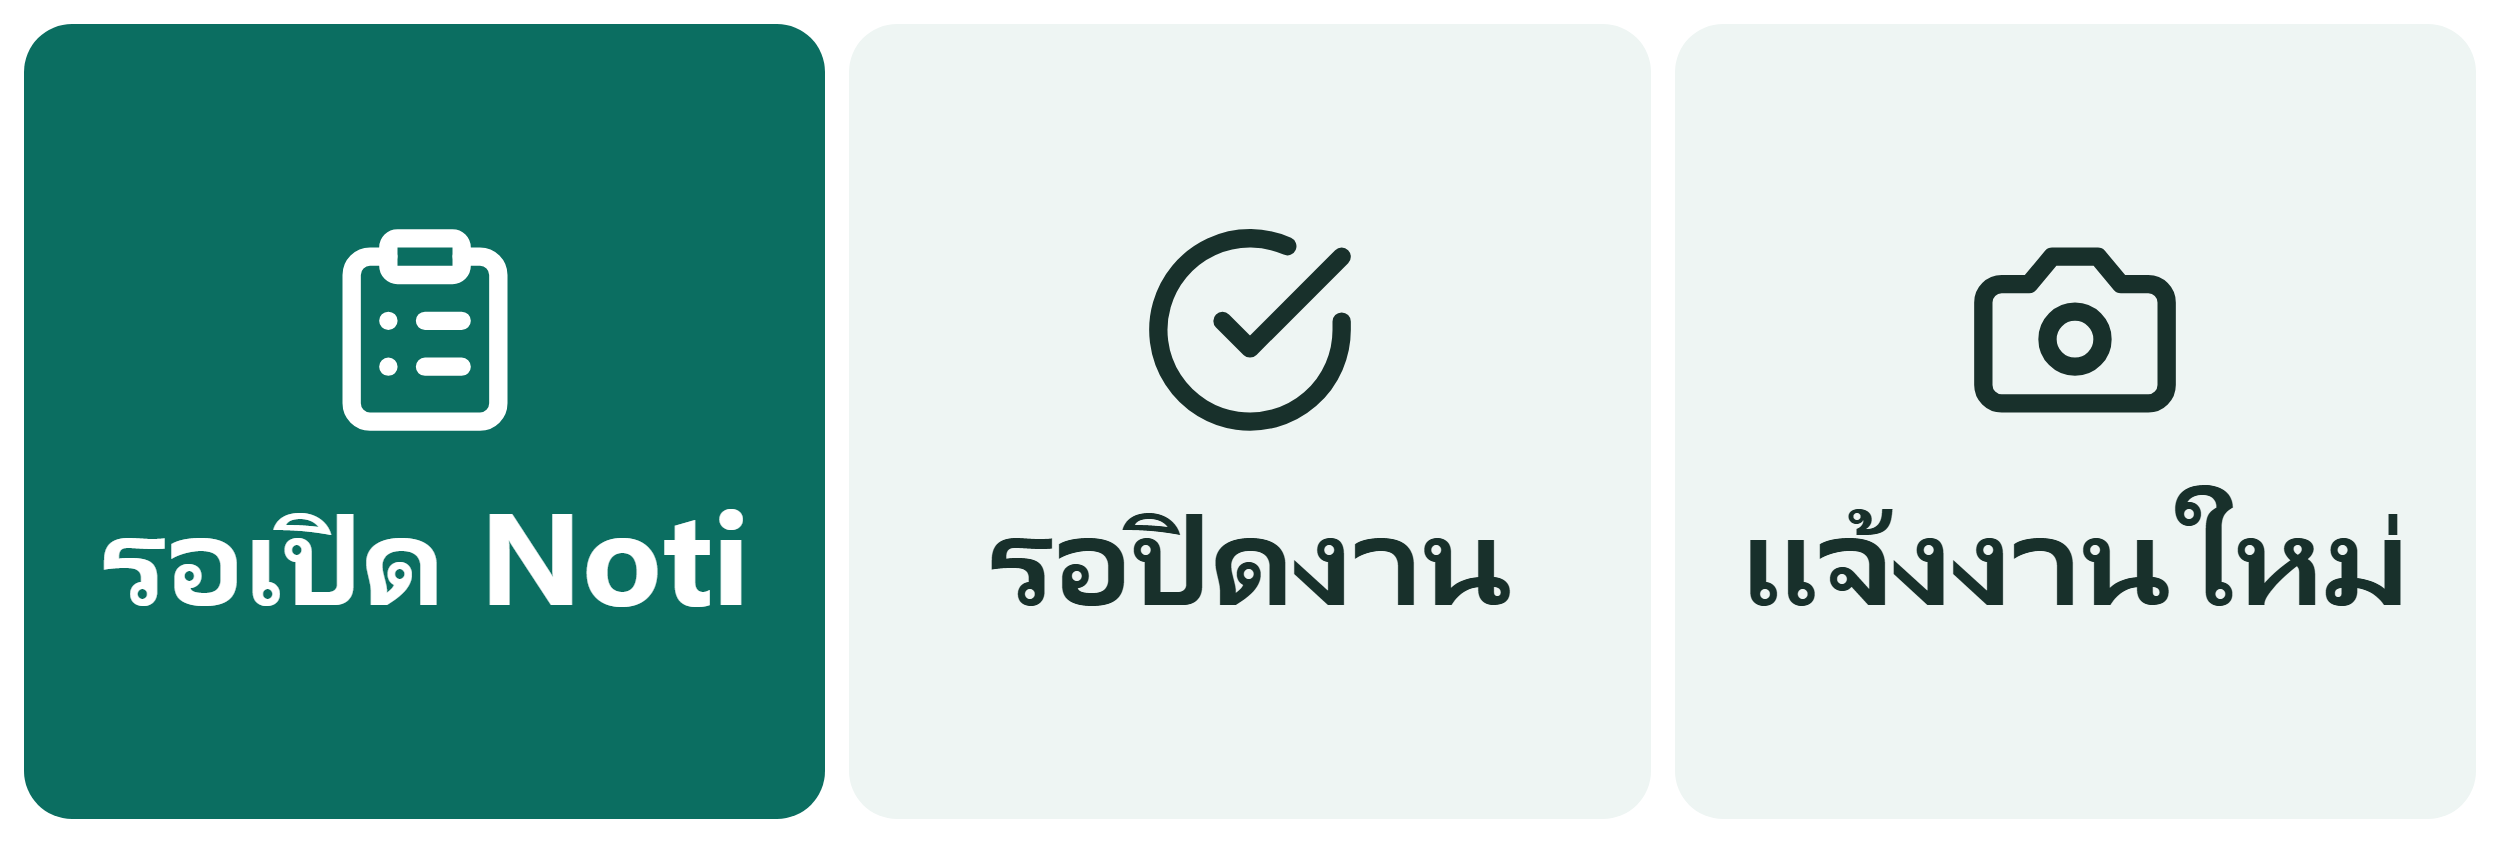
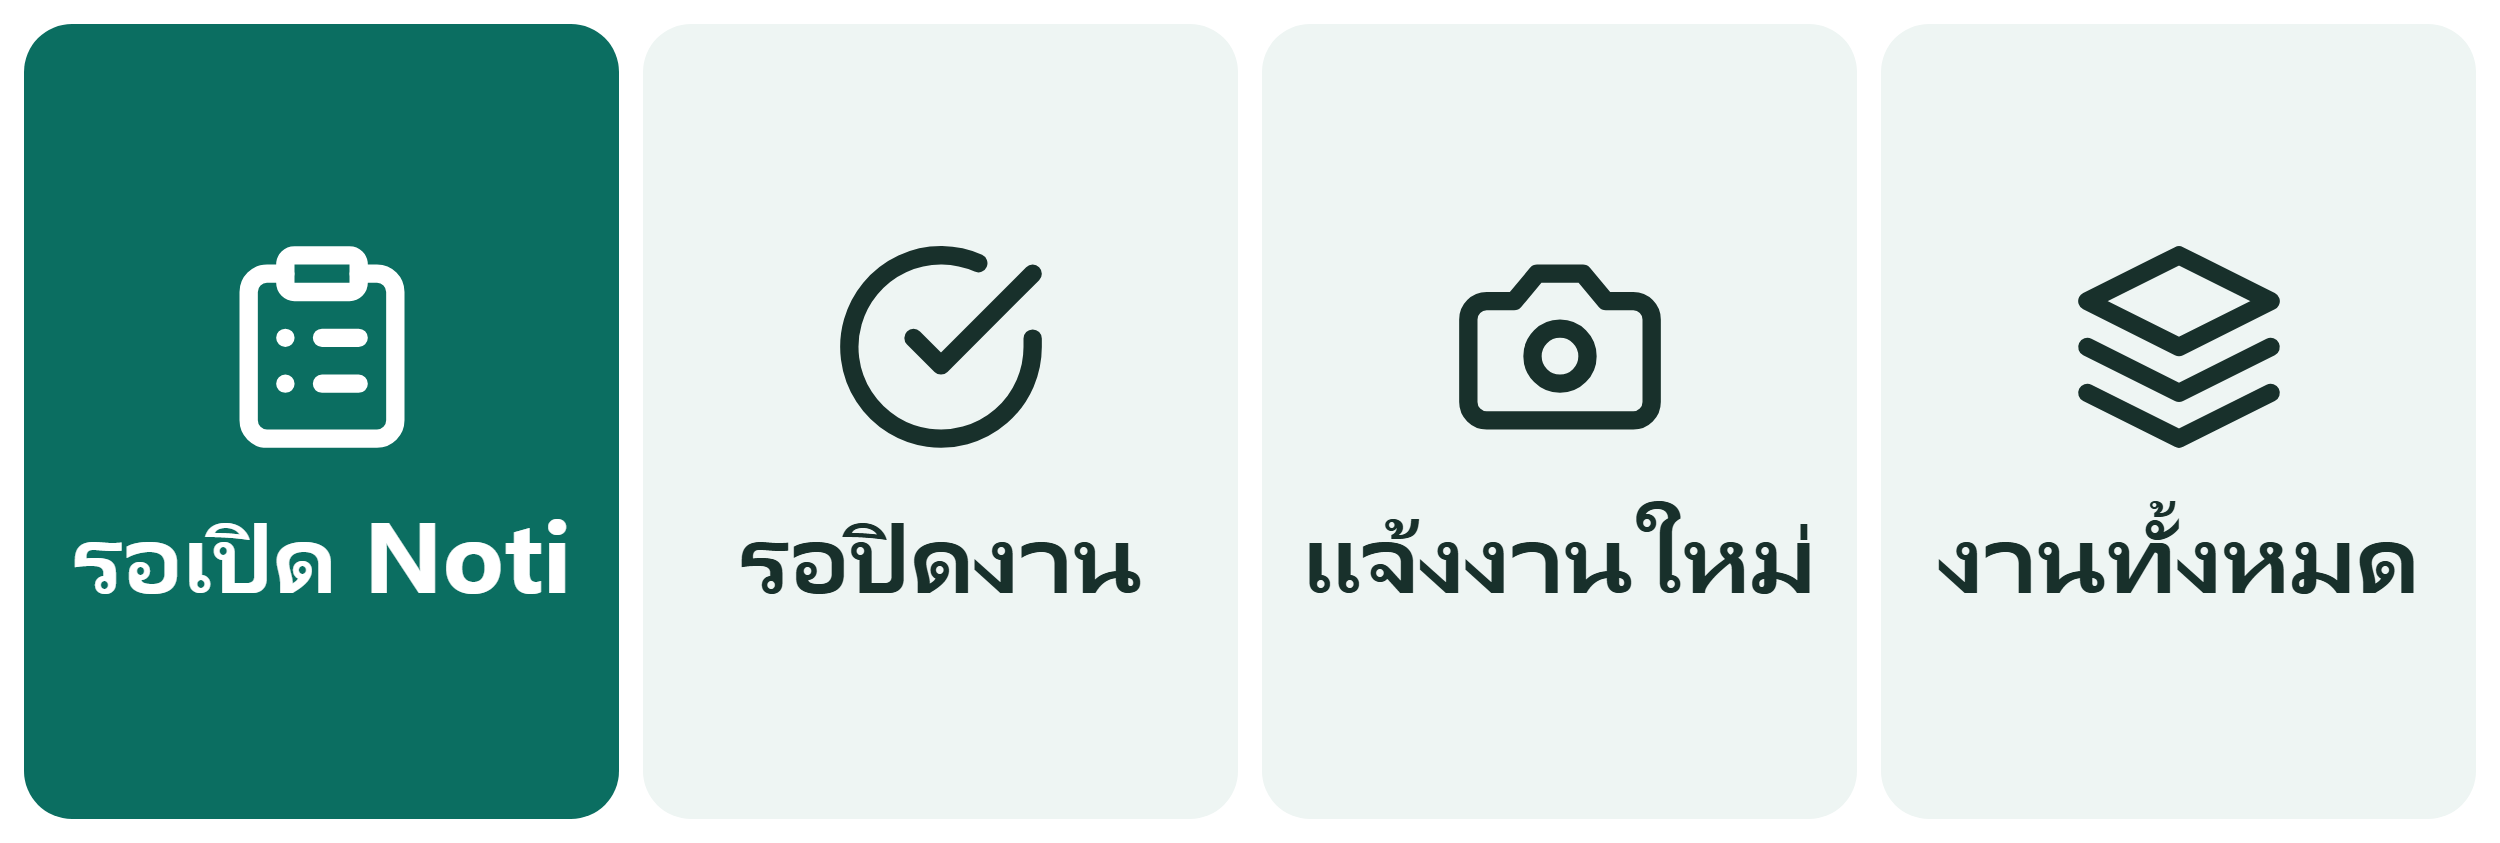
อัปเดตหน้าจอ LIFF

Changed region(s): [[0.0312, 0.0308, 0.9672, 0.987], [0.0936, 0.2467, 0.2184, 0.5552], [0.78, 0.2776, 0.936, 0.5243]]

diff --git a/app.js b/app.js
@@ -97,8 +97,6 @@
     if (me.realName) card.appendChild(row('ชื่อจริง', el('span', '', me.realName)));
     if (note) card.appendChild(el('p', 'muted', note));
     main.appendChild(card);
-    // ลายเซ็นผู้ทำ ตัวเล็กสีจางล่างสุดของหน้าแรก (docs/design/UI.md)
-    main.appendChild(el('p', 'signature', 'v1.0 · ออกแบบและพัฒนาโดย JABB'));
   }
 
   // หน้าลงทะเบียน (ตาม mockup Register.html)
@@ -306,7 +304,9 @@
         var item = el('div', 'person');
         var info = el('div', 'person-info');
         info.appendChild(el('strong', '', u.realName || u.lineName));
-        info.appendChild(el('small', 'muted', u.department + ' · ขอเป็น' + (ROLE_LABEL[u.requestedRole] || u.requestedRole)));
+        info.appendChild(el('small', 'muted', 'ขอเป็น' + (ROLE_LABEL[u.requestedRole] || u.requestedRole)));
+        // แอดมินแก้แผนกที่กรอกผิดได้ก่อนกดอนุมัติ
+        info.appendChild(departmentSelect(u));
         item.appendChild(info);
         var actions = el('div', 'person-actions');
         var reject = el('button', 'small', 'ปฏิเสธ');
@@ -322,18 +322,20 @@
       });
       main.appendChild(pendingCard);
 
-      // ผู้ใช้ที่อนุมัติแล้ว เปลี่ยนโรลได้ (ยกเว้นตัวเอง)
+      // ผู้ใช้ที่อนุมัติแล้ว เปลี่ยนโรล แผนก และระงับได้ (ตัวเองเปลี่ยนได้แค่แผนก)
       var allCard = el('section', 'card');
       allCard.appendChild(el('h1', '', 'ผู้ใช้ทั้งหมด ' + approved.length + ' คน'));
       approved.forEach(function (u) {
-        var item = el('div', 'person');
+        var item = el('div', 'person person-manage');
         var info = el('div', 'person-info');
         var isSelf = u.userId === me.userId;
         info.appendChild(el('strong', '', (u.realName || u.lineName) + (isSelf ? ' (คุณ)' : '')));
-        info.appendChild(el('small', 'muted', u.department));
         item.appendChild(info);
+        var controls = el('div', 'person-controls');
+        controls.appendChild(departmentSelect(u));
+        item.appendChild(controls);
         if (isSelf) {
-          item.appendChild(el('span', 'badge ok', ROLE_LABEL[u.role] || u.role));
+          controls.appendChild(el('span', 'badge ok', ROLE_LABEL[u.role] || u.role));
         } else {
           var roleSelect = document.createElement('select');
           roleSelect.className = 'role-select';
@@ -346,12 +348,58 @@
           roleSelect.addEventListener('change', function () {
             act(roleSelect, 'changeRole', { userId: u.userId, role: roleSelect.value });
           });
-          item.appendChild(roleSelect);
+          controls.appendChild(roleSelect);
+          var suspend = el('button', 'small', 'ระงับ');
+          suspend.addEventListener('click', function () {
+            var name = u.realName || u.lineName;
+            if (window.confirm('ระงับ ' + name + '? คนนี้จะใช้ระบบไม่ได้ ประวัติงานเก่ายังอยู่ และเปิดใช้อีกครั้งได้')) {
+              act(suspend, 'suspendUser', { userId: u.userId });
+            }
+          });
+          controls.appendChild(suspend);
         }
         allCard.appendChild(item);
       });
-      allCard.appendChild(el('p', 'muted', 'เปลี่ยนโรลแล้ว เมนูในแชทของคนนั้นเปลี่ยนตามทันที'));
+      allCard.appendChild(el('p', 'muted', 'เปลี่ยนโรลแล้ว เมนูในแชทของคนนั้นเปลี่ยนตามทันที · เปลี่ยนแผนกแล้ว งานที่แจ้งไปแล้วอยู่แผนกเดิม'));
       main.appendChild(allCard);
+
+      // ผู้ใช้ที่ระงับ (เช่น ลาออก) ซ่อนไว้ กดเปิดดูได้ และเปิดใช้อีกครั้งได้
+      var disabled = users.filter(function (u) { return u.status === 'DISABLED'; });
+      if (disabled.length) {
+        var box = el('details', 'card');
+        box.appendChild(el('summary', 'card-title', 'ผู้ใช้ที่ระงับ ' + disabled.length + ' คน'));
+        disabled.forEach(function (u) {
+          var item = el('div', 'person');
+          var info = el('div', 'person-info');
+          info.appendChild(el('strong', '', u.realName || u.lineName));
+          info.appendChild(el('small', 'muted', [u.department, ROLE_LABEL[u.role] || u.role].filter(Boolean).join(' · ')));
+          item.appendChild(info);
+          var back = el('button', 'small', 'เปิดใช้อีกครั้ง');
+          back.addEventListener('click', function () { act(back, 'reactivateUser', { userId: u.userId }); });
+          item.appendChild(back);
+          box.appendChild(item);
+        });
+        main.appendChild(box);
+      }
+
+      // ช่องเลือกแผนกของผู้ใช้ 1 คน เปลี่ยนแล้วบันทึกทันที (แผนกที่ปิดใช้ไปแล้วยังแสดงเป็นค่าปัจจุบัน)
+      function departmentSelect(u) {
+        var node = document.createElement('select');
+        node.className = 'role-select';
+        node.setAttribute('aria-label', 'แผนกของ ' + (u.realName || u.lineName));
+        var names = res.data.departments || [];
+        if (u.department && names.indexOf(u.department) === -1) names = [u.department].concat(names);
+        names.forEach(function (name) {
+          var option = el('option', '', 'แผนก' + name);
+          option.value = name;
+          option.selected = name === u.department;
+          node.appendChild(option);
+        });
+        node.addEventListener('change', function () {
+          act(node, 'changeDepartment', { userId: u.userId, department: node.value });
+        });
+        return node;
+      }
     }).catch(function () {
       showError('โหลดรายชื่อไม่สำเร็จ ตรวจสัญญาณอินเทอร์เน็ตแล้วลองใหม่');
     });
@@ -733,7 +781,7 @@
       body.appendChild(el('p', 'notice', 'ถ้าทำได้ ถ่าย 1 รูปให้เห็นรอบ ๆ ด้วย ช่างจะหาเจอง่ายขึ้น'));
       // เลขรุ่นแอปและสถานะกล้องในแอป ตัวเล็กสีจาง ใช้ถามผู้ใช้ตอนกล้องมีปัญหา (Android บางเครื่อง LINE ไม่ให้ใช้กล้องในแอป)
       var inAppCamera = navigator.mediaDevices && navigator.mediaDevices.getUserMedia ? 'รองรับ' : 'ไม่รองรับ';
-      buildInfo = el('p', 'build-info', 'รุ่น ' + (CONFIG.BUILD || 'dev') + ' · กล้องในแอป: ' + inAppCamera);
+      buildInfo = el('p', 'build-info', 'กล้องในแอป: ' + inAppCamera);
     }
 
     if (step === 2) {
@@ -1907,8 +1955,16 @@
     return showStatus(me);
   }
 
+  // ลายเซ็นผู้ทำและเลขรุ่น ตัวเล็กสีจางล่างสุดทุกหน้า (docs/design/UI.md)
+  // เลขรุ่นใช้ถามผู้ใช้ว่ามือถือเปิดแอปรุ่นล่าสุดหรือยัง (ความผิดพลาดข้อ 7)
+  function showSignature() {
+    var footer = document.getElementById('signature');
+    if (footer) footer.textContent = 'v1.0 · รุ่น ' + (CONFIG.BUILD || 'dev') + ' · ออกแบบและพัฒนาโดย JABB';
+  }
+
   // เริ่มต้น: เปิด LIFF → ล็อกอินถ้าเปิดนอก LINE → เรียก me → เลือกหน้า
   function start() {
+    showSignature();
     if (!CONFIG.LIFF_ID || !CONFIG.API_URL) {
       showError('ยังตั้งค่าแอปไม่ครบ (LIFF_ID หรือ API_URL ใน config.js)');
       return;

diff --git a/style.css b/style.css
@@ -29,6 +29,9 @@
 
 body {
   margin: 0;
+  min-height: 100vh;
+  display: flex;
+  flex-direction: column;
   background: var(--bg);
   color: var(--text);
   font-family: 'IBM Plex Sans Thai', 'Noto Sans Thai', sans-serif;
@@ -60,7 +63,7 @@ body {
 .title span { font-size: 17px; font-weight: 700; }
 .title small { font-size: 13px; color: var(--muted); }
 
-main { padding: 16px; display: flex; flex-direction: column; gap: 12px; min-height: calc(100vh - 60px); }
+main { padding: 16px; display: flex; flex-direction: column; gap: 12px; flex: 1 0 auto; }
 
 .card {
   background: var(--surface);
@@ -170,6 +173,10 @@ fieldset.field .choice { margin-bottom: 8px; }
 .person-info strong { font-size: 16px; }
 .person-info small { font-size: 14px; }
 .person-actions { display: flex; gap: 8px; flex-shrink: 0; }
+.person-info select { align-self: flex-start; margin-top: 6px; }
+.person-manage { flex-direction: column; align-items: stretch; gap: 8px; }
+.person-controls { display: flex; flex-wrap: wrap; gap: 8px; align-items: center; }
+details.card summary { cursor: pointer; min-height: 44px; display: flex; align-items: center; }
 .role-select {
   min-height: 44px;
   border: 1px solid transparent;
@@ -250,7 +257,7 @@ button.link { min-height: 44px; border: 0; background: none; color: var(--primar
 .filters .chip { flex-shrink: 0; }
 
 /* ลายเซ็นล่างสุดของหน้า ตัวเล็กสีจาง */
-.signature { margin: auto 0 0; padding-top: 32px; text-align: center; font-size: 12px; color: var(--faint); }
+.signature { margin: 0; padding: 16px 16px calc(16px + env(safe-area-inset-bottom)); text-align: center; font-size: 12px; color: var(--faint); }
 
 /* กล้องในหน้าแอป (ขั้นถ่ายรูป) เต็มจอพื้นดำ */
 .cam { position: fixed; inset: 0; z-index: 20; background: #000000; display: flex; flex-direction: column; color: #FFFFFF; }
@@ -321,3 +328,4 @@ a.button-link.small { min-height: 44px; font-size: 15px; flex: 1; }
   min-height: 44px; border-radius: 14px; border: 1px solid var(--line); background: var(--surface);
   color: var(--text); font: inherit; font-size: 15px; padding: 0 10px; min-width: 0;
 }
+.card-head button { flex-shrink: 0; white-space: nowrap; }

diff --git a/core.js b/core.js
@@ -86,6 +86,13 @@ var Core = (function () {
     return String(value == null ? '' : value).replace(/[\s-]/g, '');
   }
 
+  // เบอร์สำหรับโทรและแสดงผล: เบอร์ที่พิมพ์ลงชีตเองเป็นตัวเลข ชีตตัดเลข 0 ข้างหน้าทิ้ง (0879649498 → 879649498)
+  // เบอร์มือถือไทยมี 10 หลักขึ้นต้นด้วย 0 จึงเติม 0 คืนให้เมื่อเหลือ 9 หลัก
+  function phoneForCall(value) {
+    var digits = normalizePhone(value).replace(/\D/g, '');
+    return /^[1-9]\d{8}$/.test(digits) ? '0' + digits : digits;
+  }
+
   // ตรวจข้อมูลลงทะเบียน คืน { ok, fields } โดย fields บอกข้อความผิดของแต่ละช่อง
   // departments คือรายชื่อแผนกที่เปิดใช้ (จากชีต Departments) ถ้าส่งมา แผนกต้องอยู่ในรายการนี้
   function validateRegistration(input, departments) {
@@ -512,6 +519,7 @@ var Core = (function () {
     isRole: isRole,
     formatTime: formatTime,
     normalizePhone: normalizePhone,
+    phoneForCall: phoneForCall,
     validateRegistration: validateRegistration,
     JOB_STATUS: JOB_STATUS,
     JOB_STATUS_LABEL: JOB_STATUS_LABEL,

diff --git a/index.html b/index.html
@@ -6,7 +6,7 @@
 <meta name="author" content="JABB">
 <title>แจ้งซ่อม BTG-PD</title>
 <link rel="stylesheet" href="https://fonts.googleapis.com/css2?family=IBM+Plex+Sans+Thai:wght@400;500;600;700&amp;display=swap">
-<link rel="stylesheet" href="style.css?v=261029-0209">
+<link rel="stylesheet" href="style.css?v=261029-1819">
 </head>
 <body>
 <header class="topbar">
@@ -22,9 +22,12 @@
   </section>
 </main>
 
+<!-- ลายเซ็นและเลขรุ่น ล่างสุดทุกหน้า (app.js ใส่ข้อความ) -->
+<footer id="signature" class="signature"></footer>
+
 <script src="https://static.line-scdn.net/liff/edge/2/sdk.js"></script>
-<script src="config.js?v=261029-0209"></script>
-<script src="core.js?v=261029-0209"></script>
-<script src="app.js?v=261029-0209"></script>
+<script src="config.js?v=261029-1819"></script>
+<script src="core.js?v=261029-1819"></script>
+<script src="app.js?v=261029-1819"></script>
 </body>
 </html>

diff --git a/config.js b/config.js
@@ -1,6 +1,6 @@
 // สร้างโดย scripts/deploy-liff.sh จาก ids.public.env ไม่มีรหัสลับ
 window.APP_CONFIG = {
-  BUILD: '261029-0209',
+  BUILD: '261029-1819',
   LIFF_ID: '2012248667-eQI5MbDP',
   API_URL: 'https://script.google.com/macros/s/AKfycbwXYLF_wMPh0urzWuITKzet0XGJddTOwv45DYwWdT53UXc_QBJpNVY7cXckDNgOvS5LRQ/exec',
   OA_BASIC_ID: '@802ztxku',
